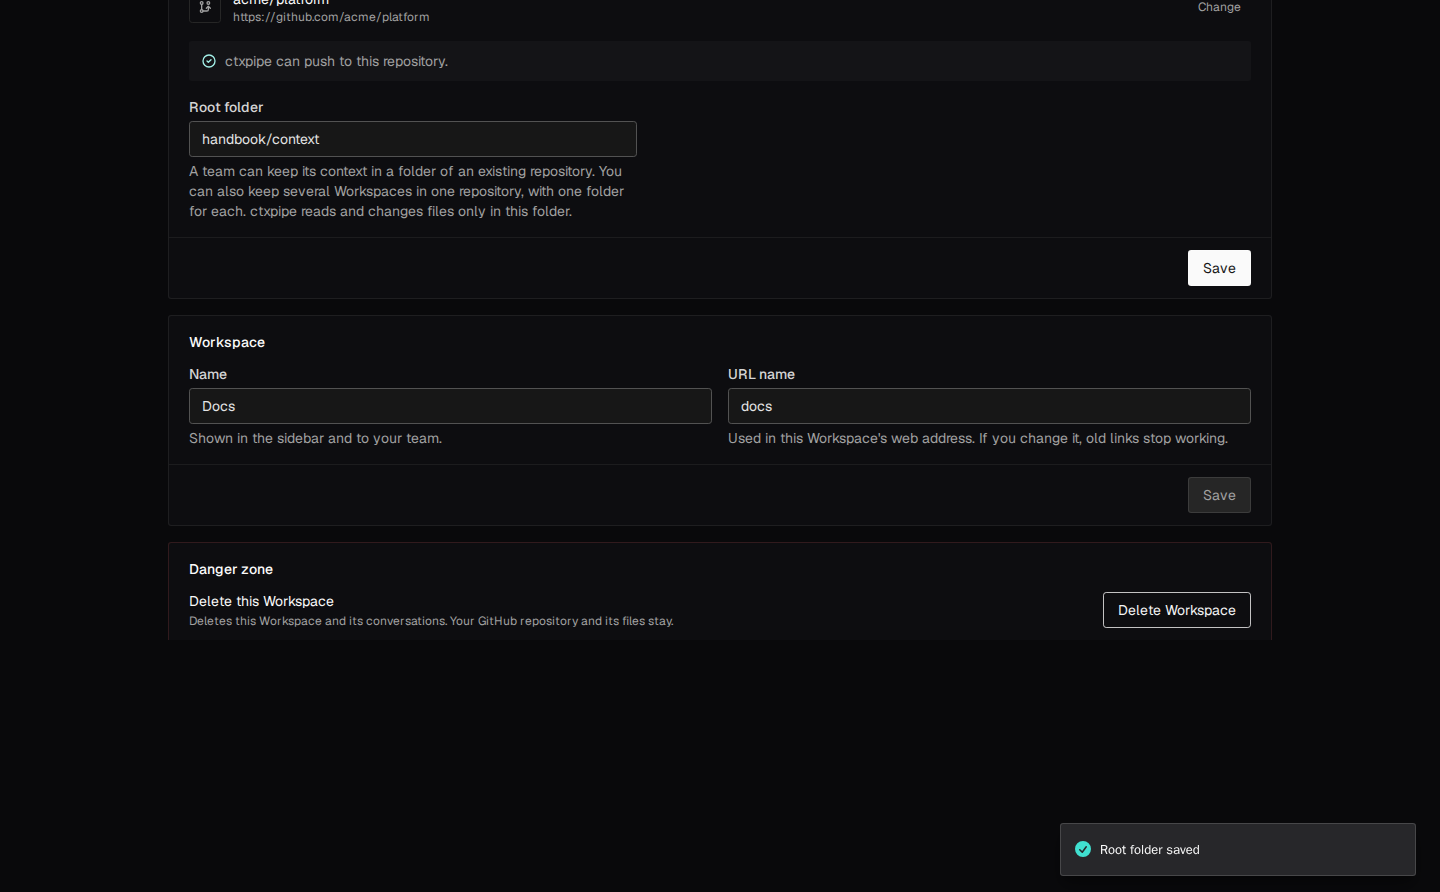
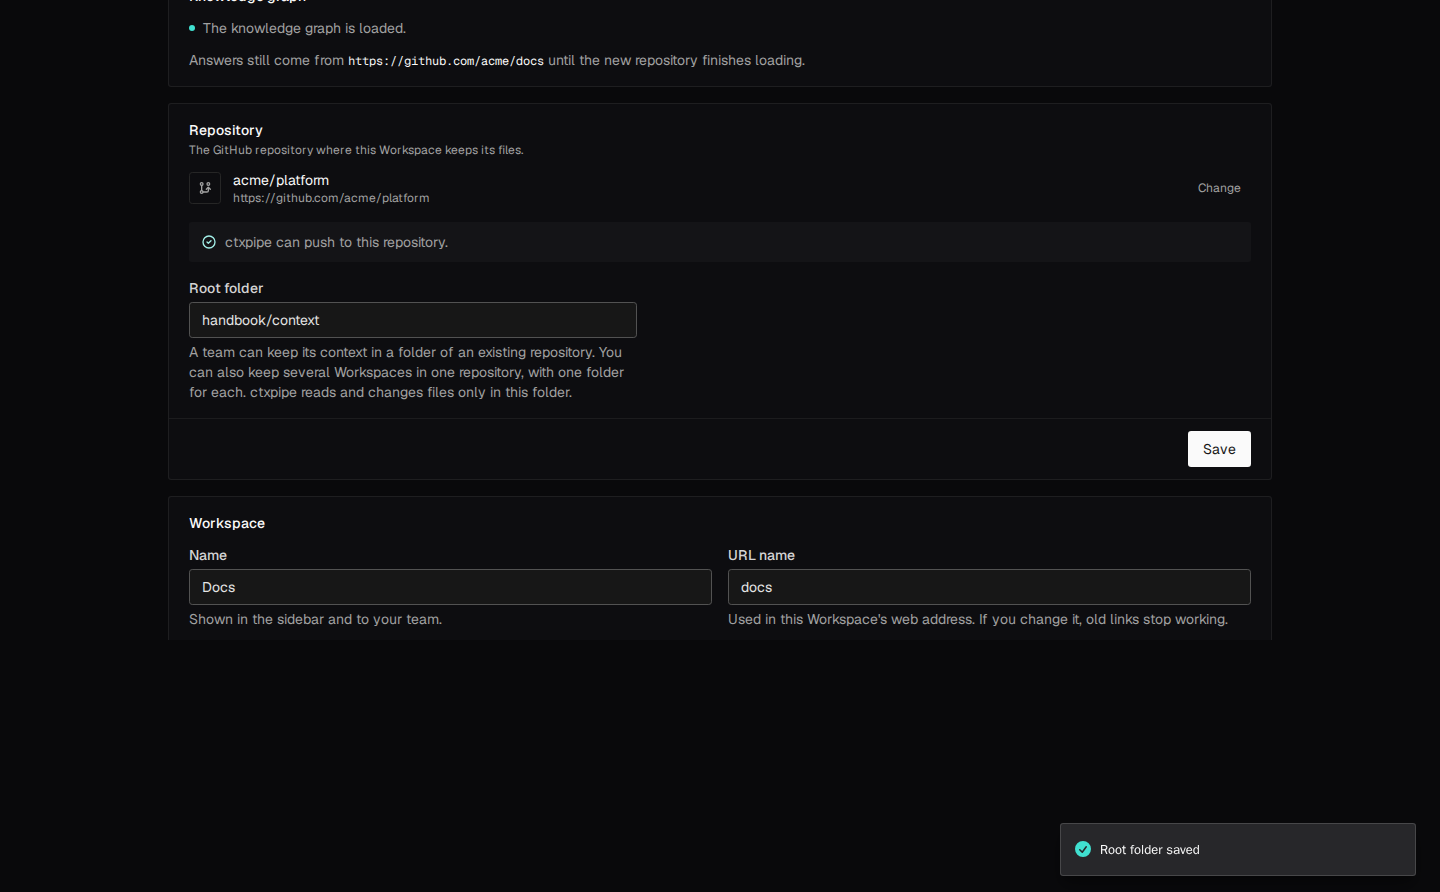
deps: Playwright 1.65.1 and its visual container (CTX-1604) (#1183)
* deps: Playwright 1.65.1 and its visual container (CTX-1604)

The playwright package of apps/ui and the pinned mcr.microsoft.com/playwright
image move together to 1.65.1 (linux/arm64 digest). The full visual check gave
one changed baseline: Chromium of 1.65.1 leaves the settings pane of the
RootFolder story at a different scroll offset after the play, same UI.

* deps: empty changeset for the Playwright move (CTX-1604)

---------

diff --git a/.changeset/shy-schools-hang.md b/.changeset/shy-schools-hang.md
@@ -1,0 +1,5 @@
+---
+
+---
+
+
